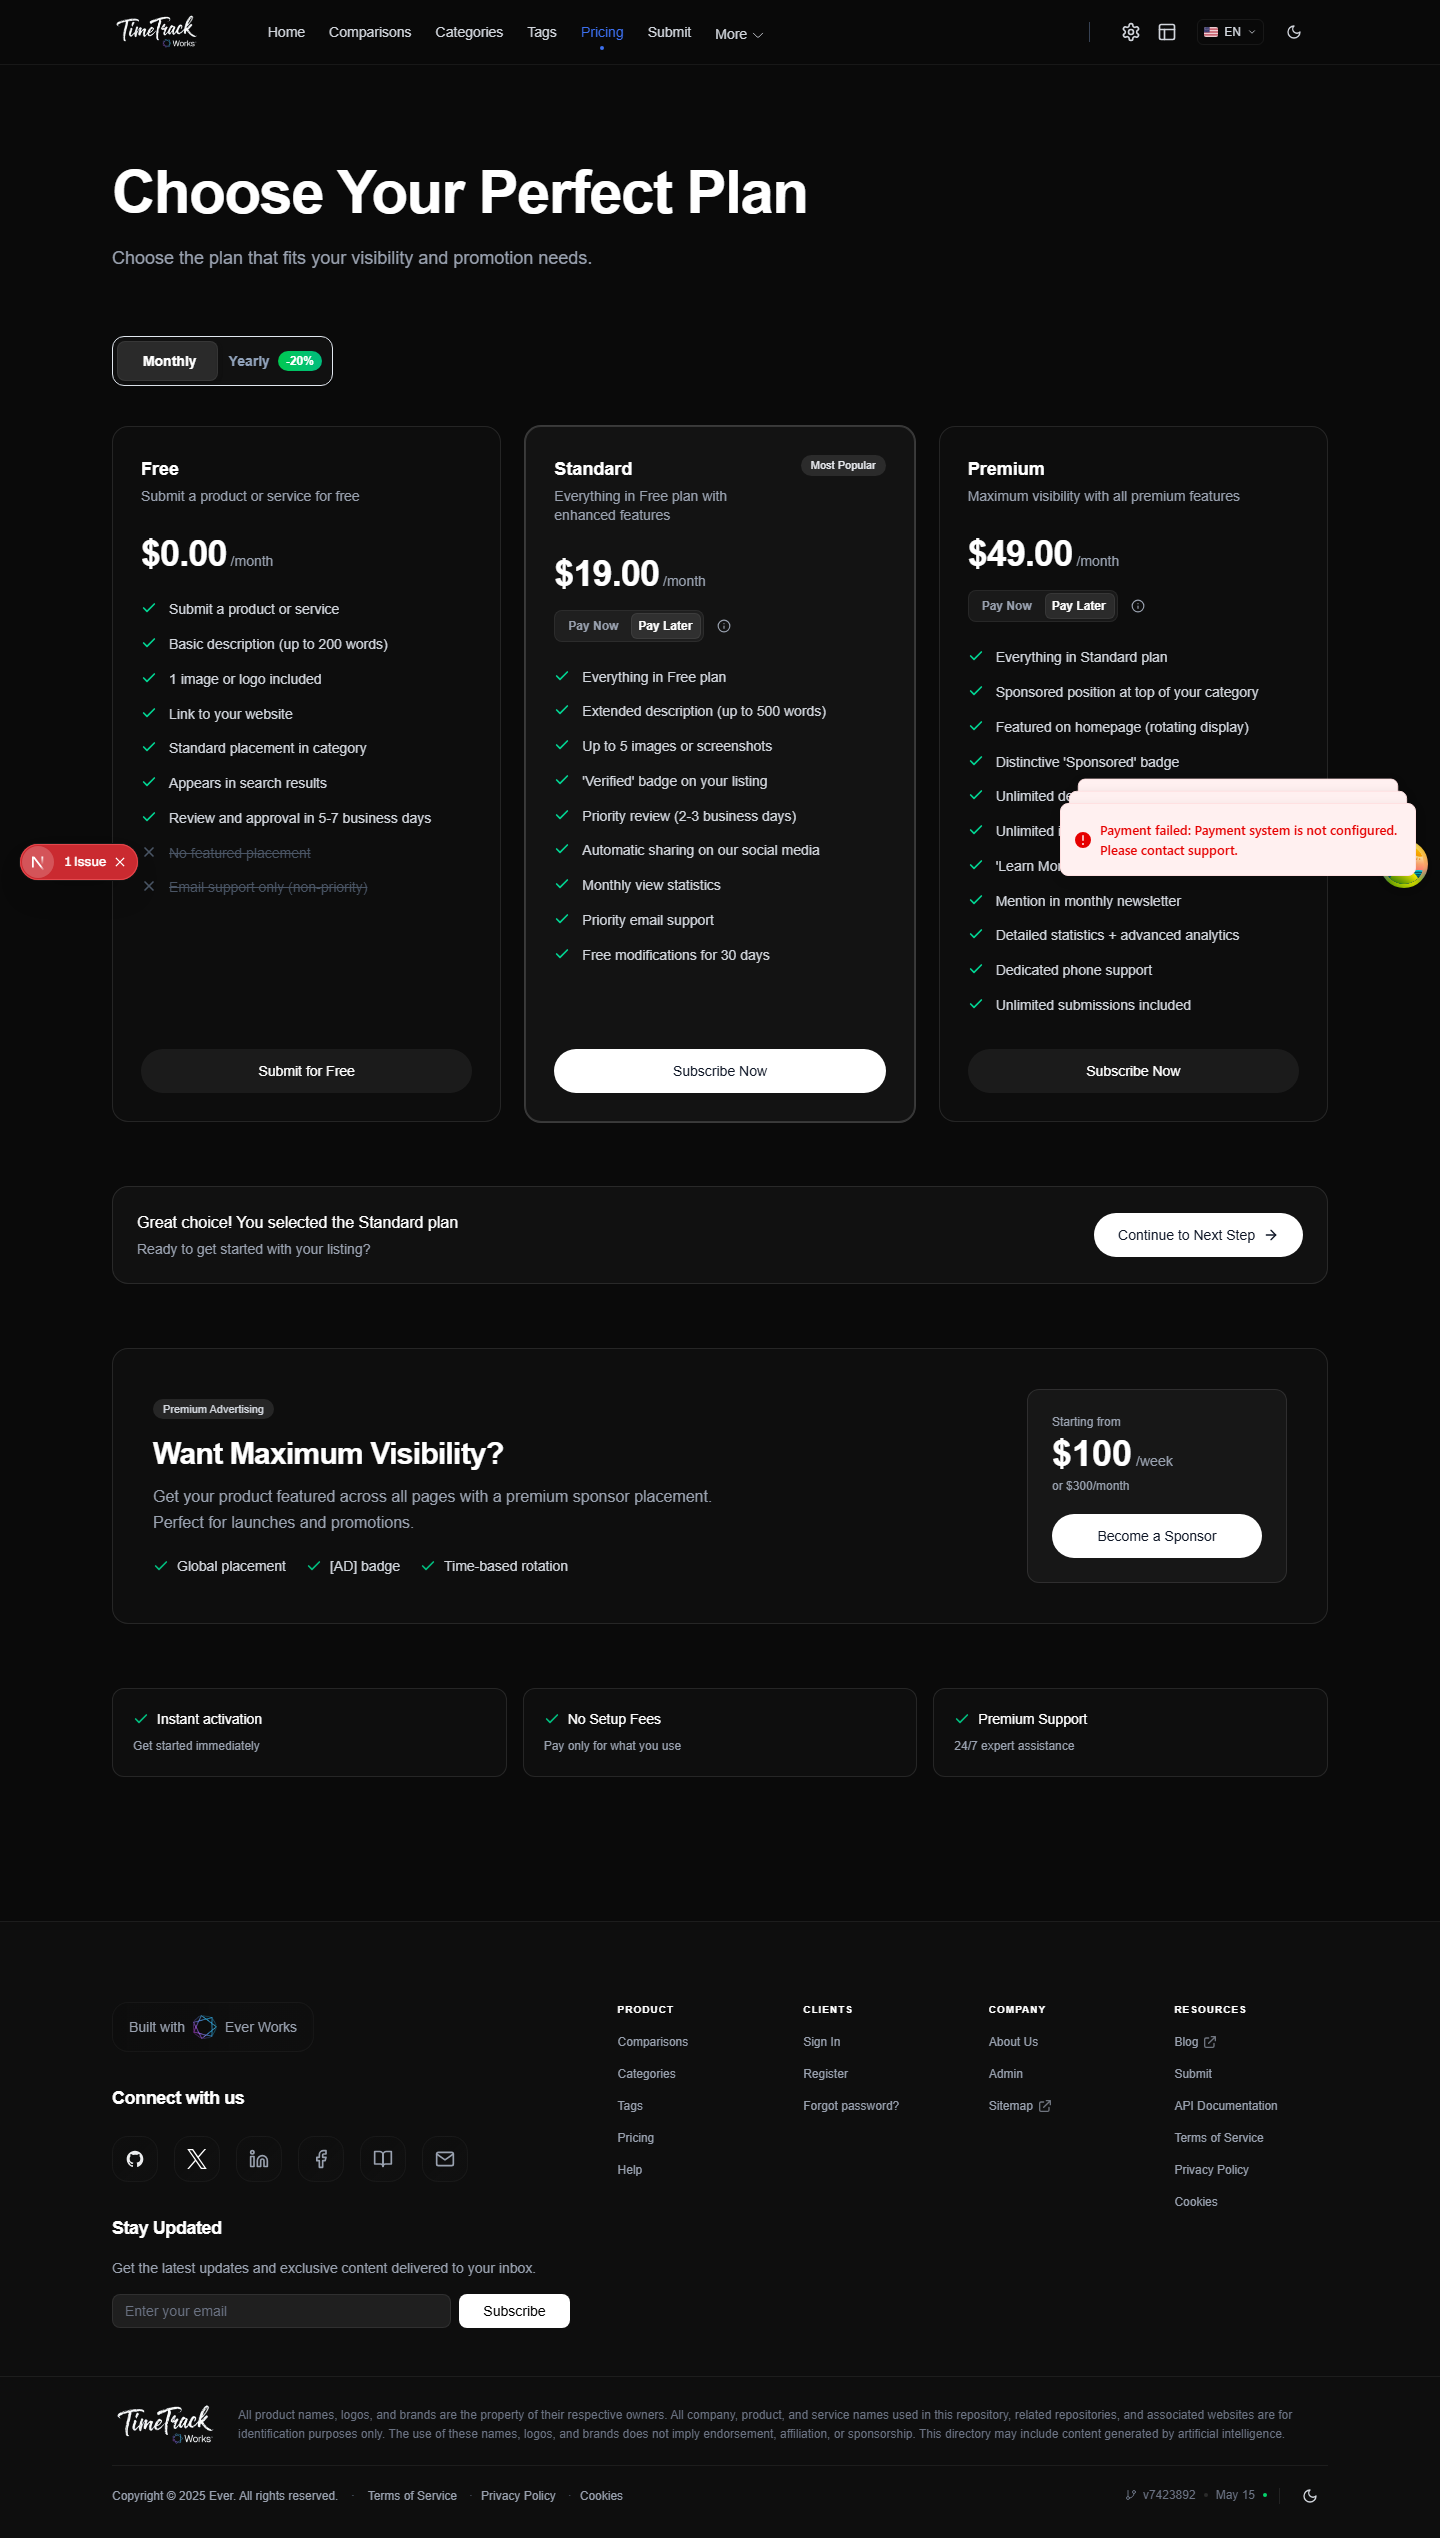
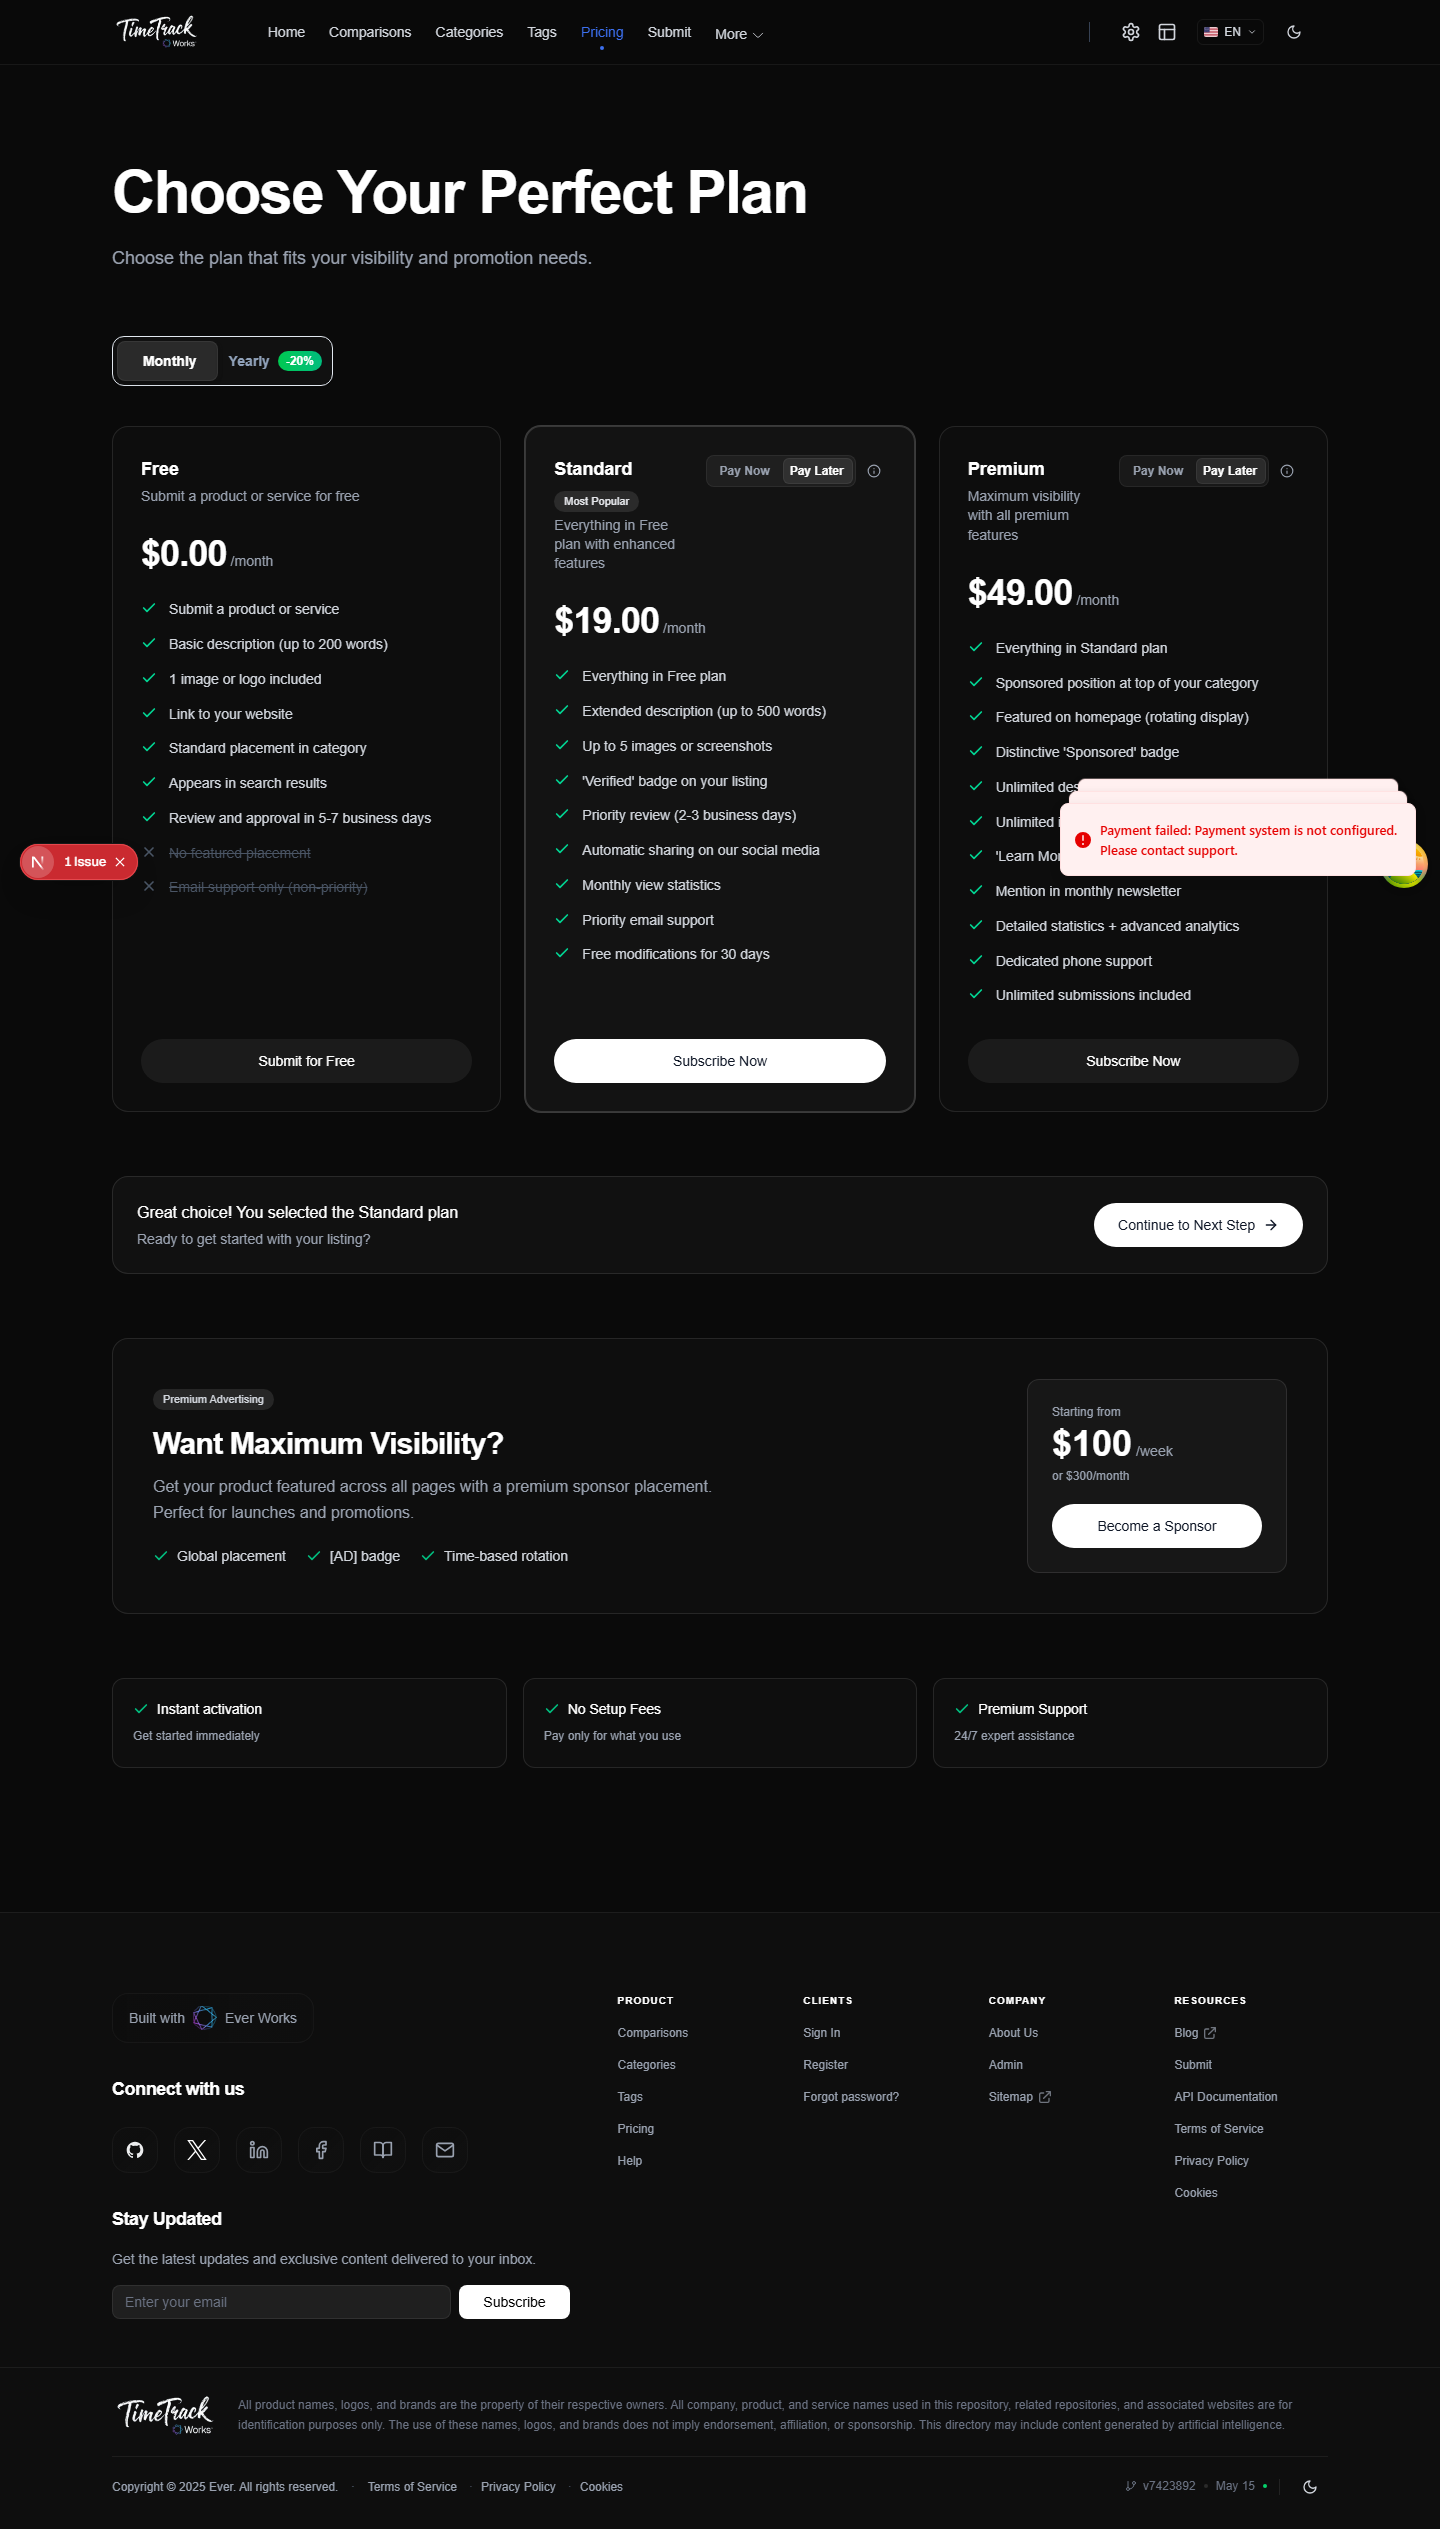
refactor(pricing): hoist Pay Now/Pay Later toggle into card header
Restores the original placement of the payment-timing ToggleGroup
(and its info button) to the top-right of the Standard/Premium plan
cards, next to the title. In the prior commit it had moved below the
price, which made it visually subordinate. The "Most Popular" chip
now sits inline with the title rather than competing for the top-right
slot.

No behavior changes; the toggle still drives the same selectedFlow /
onFlowChange / onOpenModal props. Updates the dark/light preview
screenshots referenced from the PR description to match.

diff --git a/apps/web/components/pricing/plan-card.tsx b/apps/web/components/pricing/plan-card.tsx
@@ -142,20 +142,44 @@ export function PlanCard({
   return (
     <article className={cardStyles}>
       <header className="flex items-start justify-between gap-3 mb-2">
-        <div className="flex flex-col">
-          <h3 className="text-lg font-semibold text-gray-900 dark:text-white capitalize">
-            {title.toLowerCase()}
-          </h3>
+        <div className="flex flex-col min-w-0">
+          <div className="flex items-center gap-2 flex-wrap">
+            <h3 className="text-lg font-semibold text-gray-900 dark:text-white capitalize">
+              {title.toLowerCase()}
+            </h3>
+            {isHighlight && (
+              <span className="shrink-0 inline-flex items-center px-2.5 py-0.5 rounded-full text-[11px] font-medium bg-gray-200 text-gray-700 dark:bg-white/10 dark:text-gray-200">
+                {t("MOST_POPULAR")}
+              </span>
+            )}
+          </div>
           {description && (
             <p className="mt-1 text-sm text-gray-500 dark:text-gray-400 leading-snug">
               {description}
             </p>
           )}
         </div>
-        {isHighlight && (
-          <span className="shrink-0 inline-flex items-center px-2.5 py-0.5 rounded-full text-[11px] font-medium bg-gray-200 text-gray-700 dark:bg-white/10 dark:text-gray-200">
-            {t("MOST_POPULAR")}
-          </span>
+        {isPaidPlan && onFlowChange && (
+          <div className="shrink-0 flex items-center gap-1.5">
+            <ToggleGroup
+              options={paymentFlowOptions}
+              value={selectedFlow}
+              onValueChange={handleFlowChange}
+              size="sm"
+              variant="default"
+              className="h-8 cursor-pointer"
+            />
+            {onOpenModal && (
+              <button
+                onClick={handleOpenModal}
+                className="w-6 h-6 rounded-full flex items-center justify-center text-gray-500 dark:text-gray-400 hover:text-gray-700 dark:hover:text-gray-200 hover:bg-gray-100 dark:hover:bg-white/[0.08] transition-colors cursor-pointer"
+                aria-label={t("LEARN_MORE_PAYMENT_OPTIONS")}
+                type="button"
+              >
+                <Info className="w-3.5 h-3.5" />
+              </button>
+            )}
+          </div>
         )}
       </header>
 
@@ -173,29 +197,6 @@ export function PlanCard({
       {children && (
         <div className="mt-2 text-xs text-gray-600 dark:text-gray-400">
           {children}
-        </div>
-      )}
-
-      {isPaidPlan && onFlowChange && (
-        <div className="mt-4 flex items-center gap-2">
-          <ToggleGroup
-            options={paymentFlowOptions}
-            value={selectedFlow}
-            onValueChange={handleFlowChange}
-            size="sm"
-            variant="default"
-            className="h-8 shrink-0 cursor-pointer"
-          />
-          {onOpenModal && (
-            <button
-              onClick={handleOpenModal}
-              className="w-6 h-6 rounded-full flex items-center justify-center text-gray-500 dark:text-gray-400 hover:text-gray-700 dark:hover:text-gray-200 hover:bg-gray-100 dark:hover:bg-white/[0.08] transition-colors cursor-pointer"
-              aria-label={t("LEARN_MORE_PAYMENT_OPTIONS")}
-              type="button"
-            >
-              <Info className="w-3.5 h-3.5" />
-            </button>
-          )}
         </div>
       )}
 